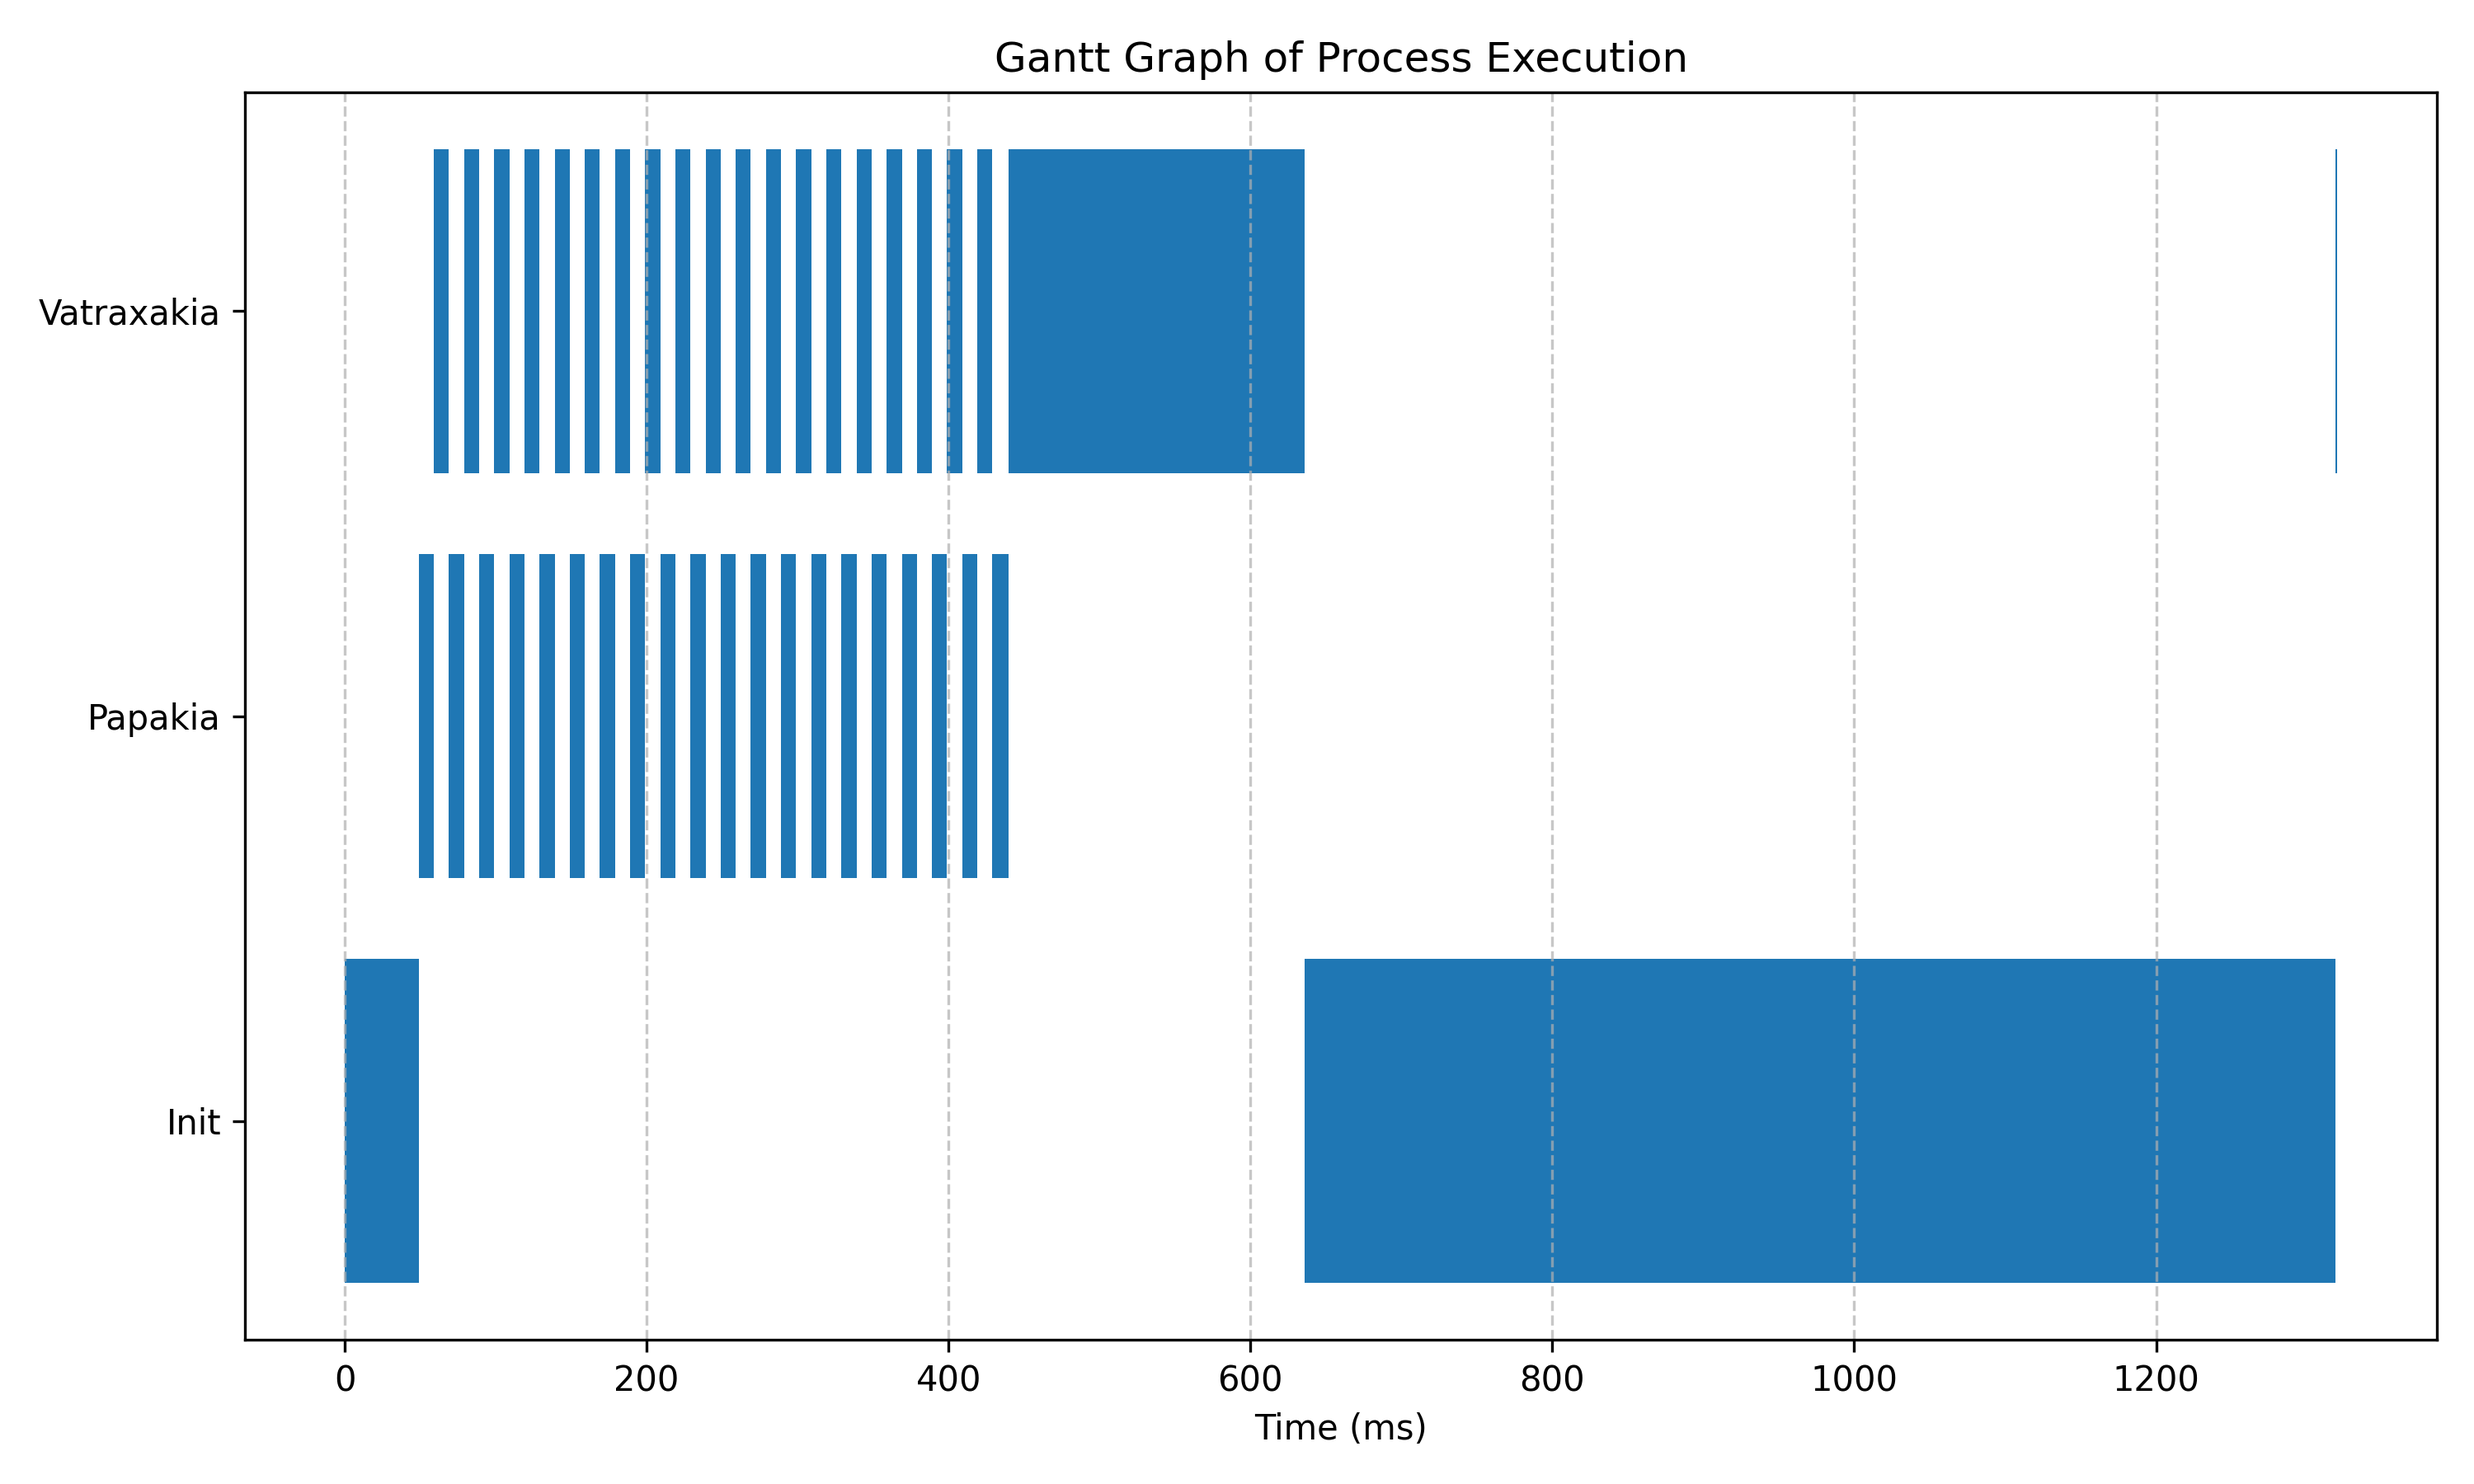
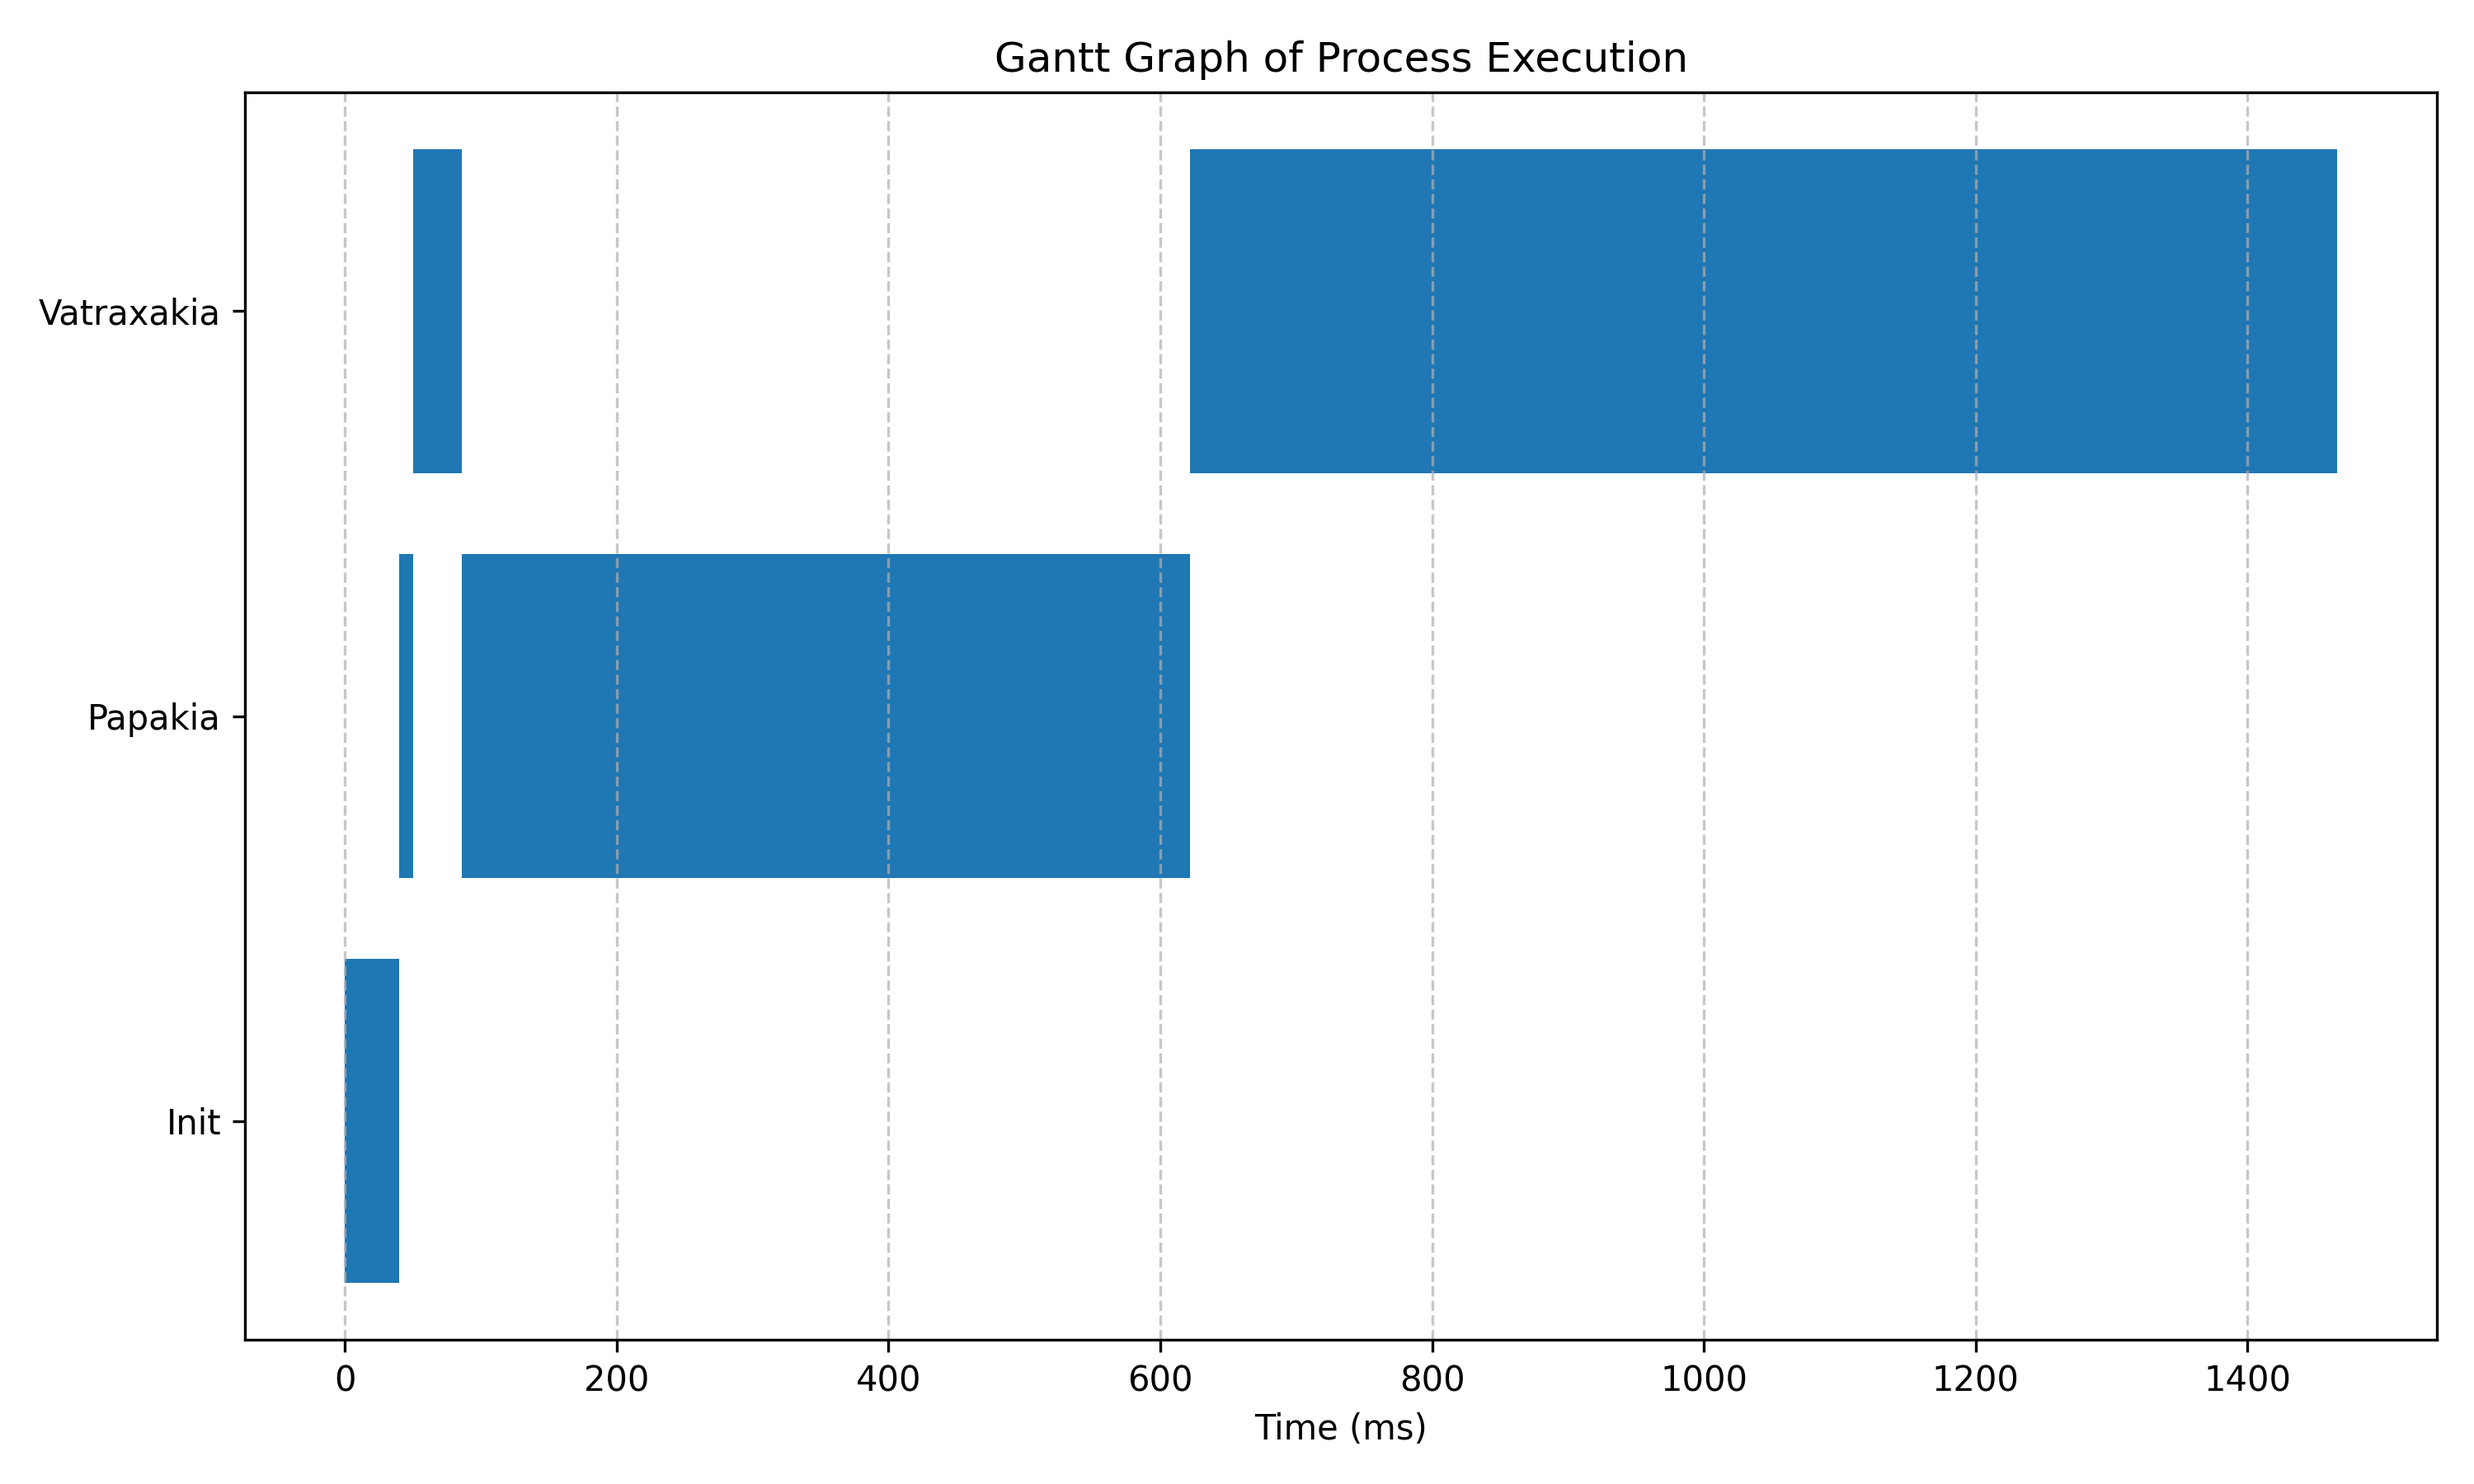
Add scheduler with SJF logic with goodness, add debugging in bash script (compiles, idk about results)

diff --git a/Project2/Scheduler_VM/schedule.c b/Project2/Scheduler_VM/schedule.c
@@ -18,7 +18,8 @@
  */
 struct runqueue *rq;
 struct task_struct *current;
-unsigned long long curr_task_start_moment;
+unsigned long long curr_task_start_time;
+short int curr_deactivated;
 
 /* External Globals
  * jiffies - A discrete unit of time used for scheduling.
@@ -85,34 +86,63 @@ void print_rq () {
  */
 void schedule()
 {
-	static struct task_struct *nxt = NULL;
-	struct task_struct *curr;
-	
-//	printf("In schedule\n");
-//	print_rq();
-	
+    unsigned long long min_expected_burst, max_rq_time_spent, min_rq_last_in;
+    unsigned long long time_now;
+    int min_goodness, curr_goodness;
+
+    // alternative name: next_task_that_was_selected_by_the_supremely_mighty_and_occasionally_moody_scheduler_engine_in_charge_of_balancing_the_fate_of_all_tasks_in_the_known_multithreaded_universe
+    struct task_struct *best_task = NULL;
+
+	printf("In schedule\n");
+	print_rq();
+
 	current->need_reschedule = 0; /* Always make sure to reset that, in case *
 								   * we entered the scheduler because current*
 								   * had requested so by setting this flag   */
 
-    current->actual_burst += sched_clock() - curr_task_start_moment; // TODO
-	//TODO find minimum Exp_Burst and maximum WaitingInRQ before finding new Current
-	//TODO find Goodness score
+    // Current process lost CPU, set last in rq time and actual burst
+    current->rq_last_in = sched_clock();
+    if (!curr_deactivated) {
+		current->actual_burst += sched_clock() - curr_task_start_time;
+    } else {
+        curr_deactivated = 0;
+    }
 
-	if (rq->nr_running == 1) {
-		context_switch(rq->head);
-		nxt = rq->head->next;
-	}
-	else {	
-		curr = nxt;
-		nxt = nxt->next;
-		if (nxt == rq->head)    /* Do this to always skip init at the head */
-			nxt = nxt->next;	/* of the queue, whenever there are other  */
-								/* processes available					   */
-		context_switch(curr);
-	}
+    min_expected_burst = rq->head->next->expected_burst;
+    min_rq_last_in = rq->head->next->rq_last_in;
+    time_now = sched_clock();
 
-    curr_task_start_moment = sched_clock(); // TODO
+    // Calculate minimum expected burst and maximum wait time in rq (oldest task)
+    for (struct task_struct *curr = rq->head->next->next; curr != rq->head; curr = curr->next) {
+		if (curr->expected_burst < min_expected_burst) {
+			min_expected_burst = curr->expected_burst;
+        }
+
+        if (curr->rq_last_in < min_rq_last_in) {
+			min_rq_last_in = curr->rq_last_in;
+        }
+    }
+
+    // Calculate goodness of each process in run queue
+	max_rq_time_spent = time_now - min_rq_last_in;
+    min_goodness = (1 + rq->head->next->expected_burst) / (1 + min_expected_burst)
+                    * (1 + max_rq_time_spent) / (1 + time_now - rq->head->next->rq_last_in);
+	best_task = rq->head->next;
+
+	for (struct task_struct *curr = rq->head->next->next; curr != rq->head; curr = curr->next) {
+		curr_goodness = (1 + curr->expected_burst) / (1 + min_expected_burst)
+                        * (1 + max_rq_time_spent) / (1 + time_now - curr->rq_last_in);
+    	if (curr_goodness < min_goodness) {
+			min_goodness = curr_goodness;
+            best_task = curr;
+    	}
+    }
+
+    // Determine if context switching is needed
+    if (best_task != current) {
+		context_switch(best_task);
+        curr_task_start_time = sched_clock();
+	}
 }
 
 
@@ -133,7 +163,12 @@ void sched_fork(struct task_struct *p)
  */
 void scheduler_tick(struct task_struct *p)
 {
-	schedule();
+  	current->time_slice -= 1;
+
+    if (current->time_slice <= 0) {
+    	current->time_slice = 10;
+		schedule();
+    }
 }
 
 /* wake_up_new_task
@@ -147,7 +182,8 @@ void wake_up_new_task(struct task_struct *p)
 	p->prev = rq->head;
 	p->next->prev = p;
 	p->prev->next = p;
-	
+	p->rq_last_in = sched_clock();
+
 	rq->nr_running++;
 }
 
@@ -161,7 +197,8 @@ void activate_task(struct task_struct *p)
 	p->prev = rq->head;
 	p->next->prev = p;
 	p->prev->next = p;
-	
+    p->rq_last_in = sched_clock();
+
 	rq->nr_running++;
 }
 
@@ -178,6 +215,10 @@ void deactivate_task(struct task_struct *p)
 
 	rq->nr_running--;
 
-    current->actual_burst = sched_clock() - curr_task_start_moment;
-	// TODO Calculate new expected burst value
+    current->actual_burst += sched_clock() - curr_task_start_time;
+	current->expected_burst = (current->actual_burst + ALPHA * current->expected_burst)
+                              / (1 + ALPHA);
+    current->actual_burst = 0;
+    curr_deactivated = 1;
+    printf("Expected burst: %llu", current->expected_burst);
 }

diff --git a/Project2/Scheduler_VM/schedule.h b/Project2/Scheduler_VM/schedule.h
@@ -4,6 +4,8 @@
 #include "macros.h"
 #include "list.h"
 
+#define ALPHA 0.5
+
 struct thread_info;
 
 /* ---------------- Do NOT Touch -------------- */
